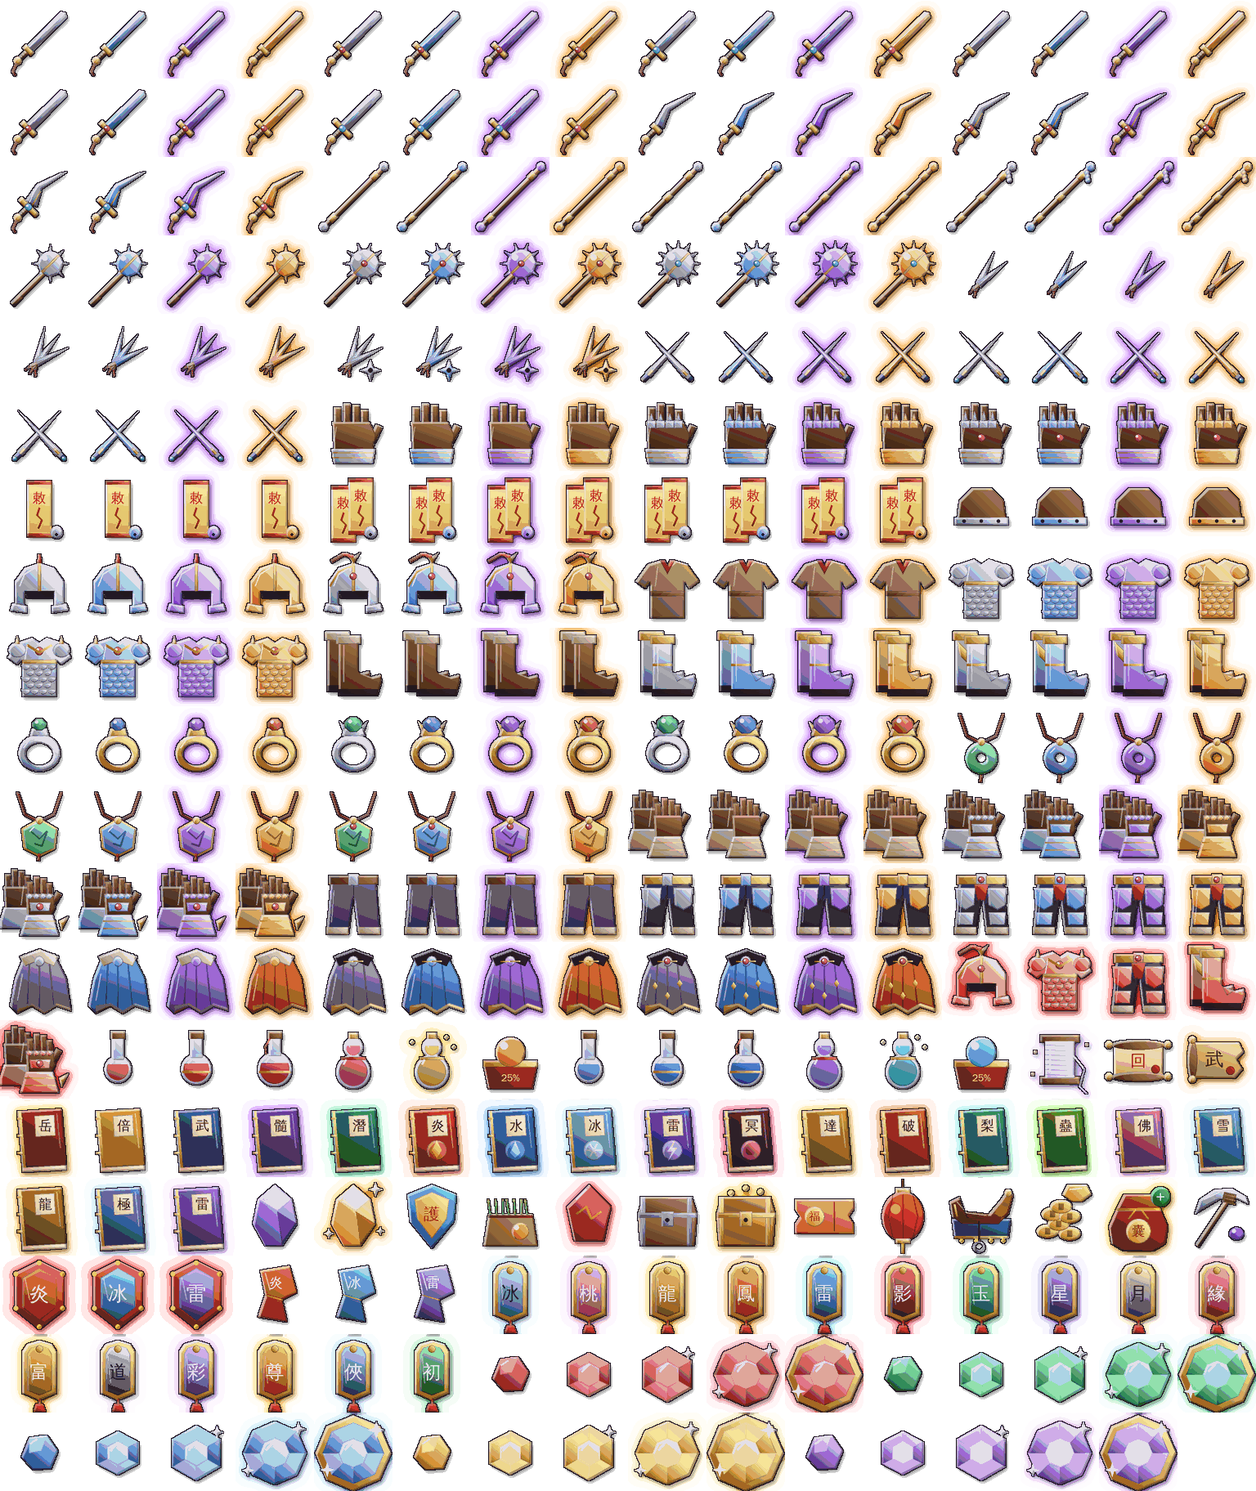
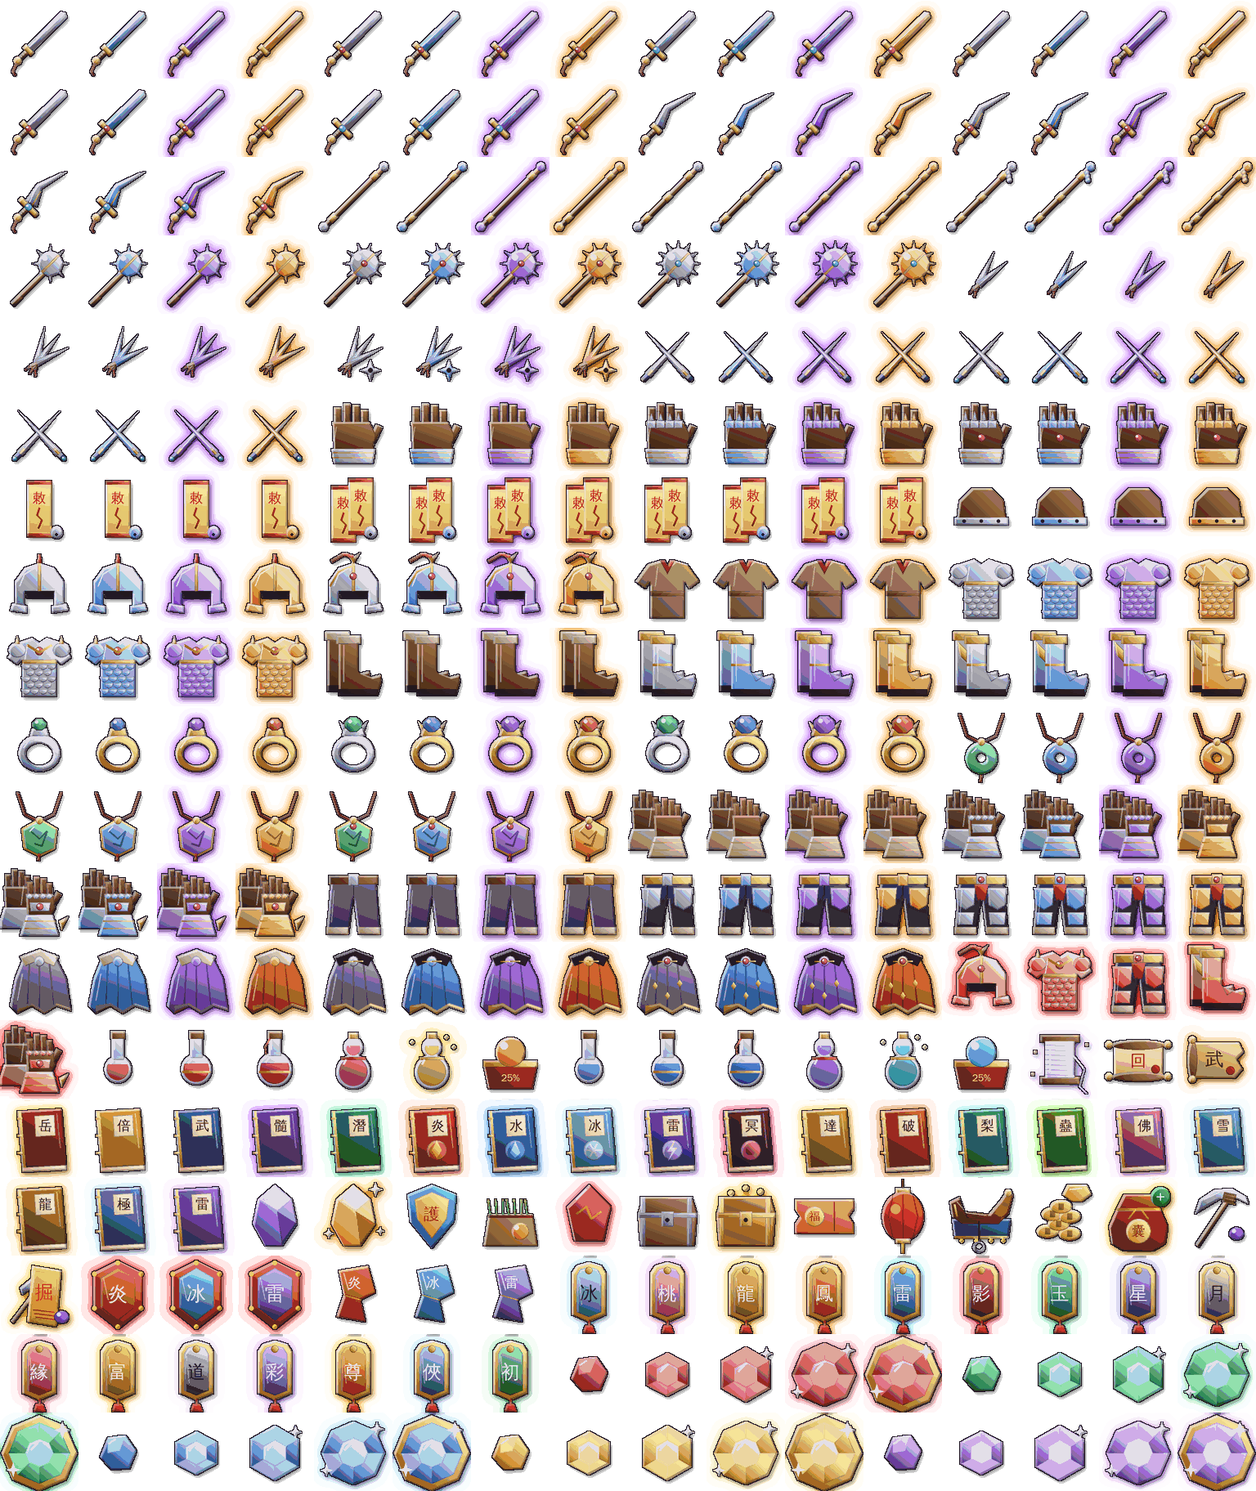
Auto-dig charm, brutal lv90+ mobs, chat emoji picker, Tong Kim HUD layout
- Bua Tu Dao (10 KNB, Ky Tran Cac): auto walk to nearest ore node and dig
  for the current cave session; tap the timer to pause
- Field monsters lv90+ hit x3 (rising per level); dungeon mobs unchanged
- Emoji picker button in the chat form
- Tong Kim: chat stays visible on touch; score board moves to the quest
  tracker spot (tracker hidden on the battlefield)

Claude-Session: https://claude.ai/code/session_01AqWtbjMjwaw5KPYKGcCy7Z

Changed region(s): [[0.0, 0.8438, 1.0, 1.0]]

diff --git a/public/js/mining.js b/public/js/mining.js
@@ -99,12 +99,44 @@
     G.moveTo = null; G.chase = null;
     return true;
   }
+  // Bùa Tự Đào: tự đi tới mỏ sẵn sàng gần nhất (tránh mỏ có người / vừa cạn), tới nơi thì bấm Đào; chạm khung đồng hồ để tạm dừng
+  let autoPause = false, goal = null, manualAt = 0;
+  const skip = new Map();   // id mỏ -> hết hạn bỏ qua (đi mãi không tới / gửi đào không được)
+  function autoDig() {
+    const m = G.me && G.me.mine;
+    if (!m || !m.auto || autoPause || !inCave() || G.me.dead) { goal = null; return; }
+    const t = performance.now();
+    if (Input.vector && Math.hypot(Input.vector().x, Input.vector().y) > 0.01) manualAt = t;   // đang tự điều khiển: nhường 3 giây
+    if (t - manualAt < 3000) { goal = null; return; }
+    if (digs.has(G.you)) { G.moveTo = null; return; }
+    if (!m.pick && !(G.me.inv || []).some(x => x.id === 'pickaxe')) return;   // hết cuốc
+    const ok = n => n.ready <= now() && !n.busy && !(skip.get(n.id) > t);
+    if (goal && (!ok(goal.n) || t - goal.t0 > 12000)) { if (t - goal.t0 > 12000) skip.set(goal.n.id, t + 30000); goal = null; }
+    if (!goal) {
+      let best = null, bd = 1e9;
+      for (const n of nodes) { if (!ok(n)) continue; const d = Math.hypot(n.x - G.self.x, n.y - G.self.y); if (d < bd) { bd = d; best = n; } }
+      if (!best) { G.moveTo = null; return; }   // mỏ nào cũng cạn: đứng chờ
+      goal = { n: best, t0: t, sent: 0 };
+    }
+    const n = goal.n, d = Math.hypot(n.x - G.self.x, n.y - G.self.y);
+    if (d > RANGE * 0.6) { G.moveTo = { x: n.x, y: n.y + 26 }; G.chase = null; return; }
+    G.moveTo = null;
+    if (t - goal.sent > 1500) {
+      if (goal.sent && ++goal.tries >= 3) { skip.set(n.id, t + 15000); goal = null; return; }
+      goal.sent = t; goal.tries = goal.tries || 0;
+      G.socket.emit('mine', { id: n.id });
+    }
+  }
+  setInterval(() => { try { autoDig(); } catch (e) { } }, 200);
+
   function ui() {
     if (!btn) {
       btn = document.createElement('button'); btn.id = 'btn-dig'; btn.className = 'hidden'; btn.innerHTML = '⛏<span>Đào</span>';
       btn.onclick = e => { e.stopPropagation(); tryDig(); };
       ($('screen-game') || document.body).appendChild(btn);
       hud = document.createElement('div'); hud.id = 'mine-hud'; hud.className = 'hidden';
+      hud.addEventListener('pointerdown', e => e.stopPropagation());
+      hud.onclick = e => { e.stopPropagation(); if (!(G.me && G.me.mine && G.me.mine.auto)) return; autoPause = !autoPause; if (autoPause) G.moveTo = null; UI.toast(autoPause ? '⏸ Tạm dừng tự đào' : '🤖 Tiếp tục tự đào'); };
       ($('screen-game') || document.body).appendChild(hud);
       window.addEventListener('keydown', e => { if (e.code === 'KeyF' && Input.inGame && !Input.typing() && nearest()) { e.preventDefault(); e.stopImmediatePropagation(); tryDig(); } }, true);
     }
@@ -112,9 +144,10 @@
     hud.classList.toggle('hidden', !on);
     if (on) {
       const left = Math.max(0, m.until - now()), mm = Math.floor(left / 60000), ss = Math.floor(left / 1000) % 60;
-      const txt = `⛏ ${String(mm).padStart(2, '0')}:${String(ss).padStart(2, '0')} · Cuốc ${m.pick} lần`;
+      const txt = `⛏ ${String(mm).padStart(2, '0')}:${String(ss).padStart(2, '0')} · Cuốc ${m.pick} lần${m.auto ? (autoPause ? ' · ⏸ Tự đào' : ' · 🤖 Tự đào') : ''}`;
       if (hud.textContent !== txt) hud.textContent = txt;
       hud.classList.toggle('warn', left < 5 * 60000);
+      hud.classList.toggle('auto', !!m.auto);
     }
     const n = nearest(), can = !!(n && n.ready <= now() && !n.busy && !digs.has(G.you));
     btn.classList.toggle('hidden', !n);

diff --git a/server/data/changelog.js b/server/data/changelog.js
@@ -4,6 +4,10 @@ const CHANGELOG = [
   {
     date: '29/10/2026',
     items: [
+      '🤖 Bùa Tự Đào (10 Nguyên Bảo – Kỳ Trân Các): dùng trong Khoáng Động, nhân vật tự tìm mỏ đá gần nhất và đào liên tục tới hết lượt 60 phút (vẫn cần Cuốc Chim). Chạm khung đồng hồ ⛏ để tạm dừng / chạy tiếp; tự điều khiển thì tự đào nhường 3 giây.',
+      '💀 Quái bãi luyện từ cấp 90 trở lên đánh cực đau (lực đánh x3 ở cấp 90, tăng dần theo cấp). Chuẩn bị đồ và bình máu thật kỹ!',
+      '😊 Khung chat có nút biểu cảm: chạm 😊 chọn icon chèn vào tin nhắn – trên điện thoại gửi được ngay không cần bật bàn phím.',
+      '⚔ Tống Kim: ô chat hiện lại trên điện thoại; bảng điểm chuyển sang bên trái (chỗ khung nhiệm vụ – khung nhiệm vụ tạm ẩn khi ở chiến trường) không che giữa màn hình nữa.',
       '⚙ Thần Binh: tỉ lệ rơi từ Boss triệu hồi giảm còn 3–5%; cần 100 Mảnh Lệnh mới ghép được Triệu Hồi Lệnh; Boss triệu hồi đánh 10.000–20.000 mỗi đòn. Mặc đủ 5 món cùng bộ: thêm vụ nổ vàng dưới chân mỗi 5 giây – chớp sáng, sóng xung kích lan rộng, đất đá nứt toả ra, đá văng.',
       '⚔ Chiến Trường Tống Kim: trọng thương không còn tự hồi sinh – chọn hồi sinh tại chỗ bằng 10 Nguyên Bảo hoặc về doanh trại phe mình (miễn phí).',
       '🧹 Menu gọn hơn: Túi đồ, Nhân vật, Võ công gộp chung một nút 🎒 Nhân vật (đổi qua lại bằng tab ở đầu bảng; phím I / C / K vẫn dùng được). Mời bạn, Gift code, Nhóm Zalo chuyển vào Cài đặt → Chung (chấm đỏ trên nút Cài đặt khi có quà chưa nhận).',

diff --git a/public/css/ui2.css b/public/css/ui2.css
@@ -278,3 +278,20 @@ body.touch #tk-hud { width: 250px; top: 44px; font-size: 9.5px; }
 .tf-tag.npc { background: #6a5420; color: #ffe9a0; }
 /* vùng chạm joystick nhỏ lại (trước gần nửa màn hình): đủ chỗ cho vòng joystick, phần còn lại chạm được nhân vật / quái */
 #joy-zone { width: clamp(210px, 30%, 300px); height: clamp(190px, 46%, 260px); }
+/* Tống Kim: bảng điểm chiếm chỗ khung nhiệm vụ (bên trái, dưới khung nhân vật); ẩn nhiệm vụ; vẫn hiện ô chat dù đang ở bản đồ PK */
+body.tk-on #tracker { display: none !important; }
+body.tk-on #tk-hud { left: 8px; top: 80px; transform: none; width: 260px; }
+body.touch.tk-on #tk-hud { top: 80px; width: 236px; }
+body.short.touch.tk-on #tk-hud { top: 70px; }
+body.pvp-on.tk-on #chat.collapsed #chat-log { display: block; }
+body.touch.pvp-on.tk-on #chat.collapsed { display: flex; }
+/* bảng biểu cảm trong khung chat */
+#chat-emo { padding: 2px 6px; font-size: 13px; line-height: 1; }
+#emo-pop { position: absolute; left: 0; right: 0; bottom: 100%; margin-bottom: 4px; display: grid; grid-template-columns: repeat(auto-fill, minmax(30px, 1fr)); gap: 2px; padding: 5px; max-height: 150px; overflow-y: auto;
+  background: rgba(14,19,28,.95); border: 1px solid var(--u-line, #3a4a60); border-radius: 12px; box-shadow: 0 6px 18px rgba(0,0,0,.5); z-index: 5; }
+#emo-pop.hidden, #chat.collapsed #emo-pop { display: none; }
+#emo-pop button { background: transparent; border: 0; font-size: 18px; line-height: 1; padding: 4px 0; border-radius: 8px; cursor: pointer; }
+#emo-pop button:hover, #emo-pop button:active { background: rgba(255,255,255,.12); }
+body.touch #emo-pop button { font-size: 21px; padding: 5px 0; }
+body.touch #chat-emo { min-width: 36px; font-size: 16px; }
+#mine-hud.auto { pointer-events: auto; cursor: pointer; }

diff --git a/server/data/items.js b/server/data/items.js
@@ -196,6 +196,7 @@ const CONSUMABLES = [
   { id: 'title_rainbow', name: 'Lệnh Bài: Thất Thải Lưu Ly', desc: 'Dùng để mở khoá vĩnh viễn danh hiệu quà tặng 【Thất Thải Lưu Ly】 có hiệu ứng riêng và đeo ngay. Chưa dùng thì tặng, giao dịch hay bán ở chợ được.', effect: { title: 'g_rainbow' }, price: 0, icon: 'title_rainbow', rarity: 'legendary' },
   { id: 'mine_ticket', name: 'Vé Vào Khoáng Động', desc: 'Dùng để vào Khoáng Động đào đá khảm trong 60 phút (cấp 25+; cấp 55+ vào Huyền Tinh Mật Cảnh, đá cấp cao hơn). Mỗi ngày tối đa 3 lượt. Cần Cuốc Chim để đào.', effect: { mine: 1 }, price: 0, icon: 'ticket' },
   { id: 'pickaxe', name: 'Cuốc Chim', desc: 'Dụng cụ đào đá trong Khoáng Động: mỗi cuốc dùng được 50 lần đào. Hết lượt sẽ tự lấy cuốc mới trong túi.', effect: { pick: 50 }, price: 0, icon: 'pickaxe' },
+  { id: 'auto_dig', name: 'Bùa Tự Đào', desc: 'Dùng trong Khoáng Động: nhân vật tự đi tới mỏ đá gần nhất và đào liên tục tới hết lượt 60 phút đang có (vẫn cần Cuốc Chim). Mỗi lá dùng cho 1 lượt vào hang.', effect: { autoDig: 1 }, price: 0, icon: 'auto_dig' },
   { id: 'lucky_chest', name: 'Rương Bí Ẩn', desc: 'Mở ra nhận vật phẩm ngẫu nhiên, có thể ra đồ VIP!', effect: { chest: 1 }, price: 5000, icon: 'chest' },
   { id: 'boss_chest', name: 'Rương Thủ Lĩnh', desc: 'Rương từ Boss, chắc chắn có đồ Hiếm trở lên', effect: { chest: 2 }, price: 20000, icon: 'chest_gold' },
   { id: 'tieu_chest_dong', name: 'Rương Tiêu Đồng', desc: 'Rương hàng văng ra khi xe Tiêu Đồng bị cướp. Mở nhận ngân lượng, Huyền Tinh.', effect: { tieuChest: 'dong' }, price: 600, icon: 'chest' },

diff --git a/public/js/ui.js b/public/js/ui.js
@@ -311,6 +311,24 @@
       $('chat-input').value = '';
       if (Input.isTouch) $('chat-input').blur();
     };
+    // bảng biểu cảm: chạm để chèn vào tin nhắn (điện thoại không bật bàn phím – gửi luôn bằng nút Gửi)
+    {
+      const EMO = '😀 😂 🤣 😊 😍 😘 😎 🤩 😏 😅 😭 😡 😱 🤔 🙄 😴 🤗 🥳 😤 🤬 👍 👎 👏 🙏 💪 🤝 ✌ 👋 🔥 💯 ❤ 💔 ⭐ 🎉 🎁 💰 💎 ⚔ 🗡 🛡 🏹 🐉 👑 🏆 💀 ☠ 🍵 🌸'.split(' ');
+      const pop = document.createElement('div'); pop.id = 'emo-pop'; pop.className = 'hidden';
+      pop.innerHTML = EMO.map(x => `<button type="button">${x}</button>`).join('');
+      $('chat').appendChild(pop);
+      $('chat-emo').onclick = e => { e.stopPropagation(); pop.classList.toggle('hidden'); };
+      pop.addEventListener('click', e => {
+        e.stopPropagation();
+        const b = e.target.closest('button'); if (!b) return;
+        const inp = $('chat-input');
+        if (inp.value.length + b.textContent.length > 140) return;
+        inp.value += b.textContent;
+        if (!Input.isTouch) inp.focus();
+      });
+      document.addEventListener('pointerdown', e => { if (!pop.classList.contains('hidden') && !pop.contains(e.target) && e.target.id !== 'chat-emo') pop.classList.add('hidden'); });
+      $('chat-form').addEventListener('submit', () => pop.classList.add('hidden'));
+    }
     $('chat-ch').onchange = () => $('chat-to').classList.toggle('hidden', $('chat-ch').value !== 'pm');
     document.querySelectorAll('#chat-tabs button[data-ch]').forEach(b => b.onclick = () => {
       document.querySelectorAll('#chat-tabs button[data-ch]').forEach(x => x.classList.toggle('on', x === b));

diff --git a/server/game/mining.js b/server/game/mining.js
@@ -23,7 +23,8 @@ class Mining {
   active(c, mapId) { return c.mineUntil > Date.now() && (!mapId || c.mineMap === baseOf(mapId)); }
   view(p) {
     const c = p.c;
-    return { left: Math.max(0, DAILY - this.usedToday(c)), daily: DAILY, until: this.active(c) ? c.mineUntil : 0, map: c.mineMap || null, pick: c.pickUses | 0 };
+    const on = this.active(c);
+    return { left: Math.max(0, DAILY - this.usedToday(c)), daily: DAILY, until: on ? c.mineUntil : 0, map: c.mineMap || null, pick: c.pickUses | 0, auto: on && c.mineAuto === c.mineUntil ? 1 : 0 };
   }
   // vào bản đồ khoáng động khi không có lượt (cổng, dịch chuyển, đăng nhập lại sau khi hết giờ): đưa về thành
   allowEnter(p, mapId) {
@@ -77,6 +78,16 @@ class Mining {
     p.c.pickUses = (p.c.pickUses | 0) + PICK_USES;
     this.w.toast(p, `⛏ Cuốc Chim: còn ${p.c.pickUses} lần đào`, 'reward');
     p.dirtyMe = true; this.w.db.markDirty();
+  }
+  // Bùa Tự Đào: bật tự đào cho lượt đang có (máy khách tự đi tới mỏ và bấm Đào)
+  useAuto(p, uid) {
+    const c = p.c, w = this.w;
+    if (!this.active(c, p.mapId)) return w.toast(p, 'Vào Khoáng Động (dùng Vé Vào Khoáng Động) rồi mới dùng Bùa Tự Đào', 'error');
+    if (c.mineAuto === c.mineUntil) return w.toast(p, 'Lượt này đang tự đào rồi', 'error');
+    U.removeByUid(c, uid, 1);
+    c.mineAuto = c.mineUntil;
+    w.toast(p, '🤖 Bật tự đào: nhân vật sẽ tự tìm mỏ và đào tới hết lượt. Chạm khung đồng hồ ⛏ để tạm dừng / chạy tiếp.', 'reward');
+    p.dirtyMe = true; w.db.markDirty();
   }
   end(p, why) {
     const c = p.c;

diff --git a/server/data/npcs.js b/server/data/npcs.js
@@ -32,7 +32,7 @@ const NPCS = {
     talk: 'Bảo vật hiếm có, chỉ nhận Nguyên Bảo.',
     knbShop: [
       ...['weapon', 'armor', 'helmet', 'boots', 'ring', 'amulet'].flatMap(s => [1, 2, 3, 4].map(t => ({ id: `${s}_${t}_rare`, knb: 20 + t * 25 }))),
-      { id: 'doi_phai', knb: 300 }, { id: 'inv_card', knb: 50 }, { id: 'rename_card', knb: 20 }, { id: 'tay_tuy_kinh', knb: 30 }, { id: 'pk_pardon', knb: 30 }, { id: 'stall_token', knb: 10 }, { id: 'mine_ticket', knb: 15 }, { id: 'pickaxe', knb: 10 }, { id: 'tay_tiem_nang', knb: 20 }, { id: 'lucky_chest', knb: 30 }, { id: 'exp_x2', knb: 10 }, { id: 'wheel_ticket', knb: 15 }, { id: 'stone', knb: 3 },
+      { id: 'doi_phai', knb: 300 }, { id: 'inv_card', knb: 50 }, { id: 'rename_card', knb: 20 }, { id: 'tay_tuy_kinh', knb: 30 }, { id: 'pk_pardon', knb: 30 }, { id: 'stall_token', knb: 10 }, { id: 'mine_ticket', knb: 15 }, { id: 'pickaxe', knb: 10 }, { id: 'auto_dig', knb: 10 }, { id: 'tay_tiem_nang', knb: 20 }, { id: 'lucky_chest', knb: 30 }, { id: 'exp_x2', knb: 10 }, { id: 'wheel_ticket', knb: 15 }, { id: 'stone', knb: 3 },
       { id: 'stone2', knb: 40 }, { id: 'insure', knb: 60 }, { id: 'mount_food', knb: 2 }, { id: 'mount_stone', knb: 30 },
       { id: 'book_fire', knb: 800 }, { id: 'book_water', knb: 800 }, { id: 'book_ice', knb: 800 }, { id: 'book_thunder', knb: 800 }, { id: 'book_shadow', knb: 800 },
       { id: 'mount_kim_nguu', knb: 1200 }, { id: 'mount_bach_ho', knb: 1500 }, { id: 'mount_kim_quy', knb: 2000 }, { id: 'mount_hoa_ky_lan', knb: 5000 }, { id: 'mount_phuong_hoang', knb: 6500 }, { id: 'mount_thanh_long', knb: 8000 }, { id: 'mount_hac_long', knb: 8000 }

diff --git a/server/data/monsters.js b/server/data/monsters.js
@@ -159,6 +159,9 @@ function highMon(m) {
   m.hp = Math.round(m.hp * h); m.def = Math.round(m.def * (1 + x * 0.01)); m.atk = Math.round(m.atk * (1 + x * 0.006));
   m.exp = Math.round(m.exp * (1 + (h - 1) * 0.6)); m.gold = Math.round(m.gold * (1 + (h - 1) * 0.4));
 }
+// Quái bãi luyện cấp 90+ đánh cực đau: lực đánh x3 ở cấp 90, +6%/cấp (cấp 99 ~x3,5). Người đủ đồ Truyền Kỳ +7 chịu ~7–8 đòn, +12 ~11 đòn
+// (trước đây 25–45 đòn). Không áp cho quái / boss phó bản (đã có hệ số riêng).
+const BRUTAL_FROM = 90, BRUTAL = L => L < BRUTAL_FROM ? 1 : 3 + (Math.min(L, 120) - BRUTAL_FROM) * 0.06;
 const MON_EL = { rabbit: 'moc', wolf: 'kim', bandit: 'kim', snake: 'moc', bear: 'tho', tiger: 'kim', monkey: 'moc', scorpion: 'tho', ghost: 'thuy', yeti: 'thuy', demon: 'hoa' };
 for (const id in MONSTERS) {
   const m = MONSTERS[id];
@@ -166,6 +169,7 @@ for (const id in MONSTERS) {
   m.el = m.el || MON_EL[m.sprite] || 'tho';
   Object.assign(m, stats(m.lv));
   highMon(m);
+  if (!m.pbBoss && !m.hpK && !/^pb\d/.test(id)) m.atk = Math.round(m.atk * BRUTAL(m.lv));
   m.respawn = 8000;
   if (m.hpK) m.hp = Math.round(m.hp * m.hpK);   // quái đầu lĩnh trong phó bản
   if (m.pbBoss) { m.hp *= 40; m.atk = Math.round(m.atk * 2); m.def = Math.round(m.def * 1.4); m.exp *= 25; m.gold *= 30; }   // boss phó bản: rất trâu, đánh đau

diff --git a/server/game/world.js b/server/game/world.js
@@ -1467,6 +1467,7 @@ class World {
       p.dirtyMe = true; this.db.markDirty(); return;
     }
     if (e.pick) return this.mining.usePick(p, uid);     // Cuốc Chim
+    if (e.autoDig) return this.mining.useAuto(p, uid);   // Bùa Tự Đào
     if (e.dvFrag) return this.divine.useFrag(p, uid, e.dvFrag);       // ghép mảnh lệnh
     if (e.dvSummon) return this.divine.summon(p, uid, e.dvSummon);    // triệu hồi boss Thần Binh
     if (e.stall) return p.mapId === 'cho_phien' ? this.market.action(p, { op: 'mine' }) : this.toast(p, '🏪 Đến Chợ Phiên (đi Xa Phu, miễn phí) rồi dùng lệnh bài này hoặc bấm "🏪 Sạp hàng của tôi" để mở gian hàng ở bất kỳ chỗ trống nào.', 'info');

diff --git a/public/index.html b/public/index.html
@@ -196,6 +196,7 @@
           <select id="chat-ch"><option value="world">Thế giới</option><option value="map">Bản đồ</option><option value="guild">Bang</option><option value="pm">Mật</option></select>
           <input id="chat-to" placeholder="Tên" class="hidden" maxlength="14">
           <input id="chat-input" placeholder="Nhập tin nhắn... (Enter)" maxlength="140">
+          <button type="button" id="chat-emo" class="btn small" title="Biểu cảm">😊</button>
           <button class="btn small">Gửi</button>
         </form>
       </div>

diff --git a/public/js/tongkim.js b/public/js/tongkim.js
@@ -63,6 +63,7 @@
   // ---------- bảng điểm trên chiến trường ----------
   function hud() {
     let h = $('tk-hud');
+    const on = !!inMap(); if (document.body.classList.contains('tk-on') !== on) document.body.classList.toggle('tk-on', on);
     if (!inMap() || !st) { if (h) h.remove(); return; }
     if (!h) {
       h = document.createElement('div'); h.id = 'tk-hud'; $('screen-game').appendChild(h);

diff --git a/tools/icons.py b/tools/icons.py
@@ -555,6 +555,16 @@ def pickaxe(ic):   # Cuốc Chim: cán gỗ chéo, lưỡi sắt cong hai đầu
     ic.spec([(22, 18), (34, 12)], 1.2, 0.8)
     ic.paint(ic.m_ell(48, 46, 6, 5), '#c070ff', '#4a1aa0', edge=0.4, shine=0); ic.dot(46, 44, 1.6, '#ffffff', 0.9)   # viên đá vừa đào
 
+def auto_dig(ic):   # Bùa Tự Đào: lá bùa vàng chữ đỏ 掘, cuốc chim nhỏ bắt chéo phía sau, viên đá tím
+    ic.paint(ic.m_line([(10, 54), (34, 22)], 3), *WOOD)
+    ic.paint(ic.m_poly([(16, 26), (26, 18), (38, 18), (44, 24), (36, 22), (26, 26), (18, 32)]), '#e8eef4', '#4a5464', ang=-60)
+    ic.paint(ic.m_poly([(26, 8), (50, 12), (46, 58), (22, 54)]), '#ffe27a', '#b07a10', ang=-70)
+    ic.paint(ic.m_poly([(28, 12), (47, 15), (44, 54), (25, 51)]), '#ffd04a', '#c08a18', edge=0.2, shine=0.1, alpha=0.6)
+    ic.text('掘', 36, 30, 15, '#c81a10')
+    for k in range(3): ic.paint(ic.m_line([(27 + k, 44 + k * 3), (44 + k * 0.3, 46 + k * 3)], 1), '#c81a10', None, edge=0, shine=0)
+    ic.paint(ic.m_ell(50, 50, 6, 5), '#c070ff', '#4a1aa0', edge=0.4, shine=0); ic.dot(48, 48, 1.6, '#ffffff', 0.9)
+    ic.spec([(28, 12), (26, 30)], 1, 0.5)
+
 # Mảnh lệnh / Triệu Hồi Lệnh boss Thần Binh
 DV_SETS = {'xv': ('#ff7a3a', '#7a1004', '炎'), 'hb': ('#8ae0ff', '#0a3a6a', '冰'), 'ld': ('#c8a8ff', '#2a1460', '雷')}
 def dv_token(ic, key):
@@ -678,12 +688,12 @@ SIMPLE = {
     'jh_book_cl': lambda ic: book(ic, ('#9a5ad8', '#24104a'), '雷'),
     'stone': stone, 'stone2': lambda ic: stone(ic, True), 'insure': insure, 'food': food, 'blood': blood,
     'chest': chest, 'chest_gold': lambda ic: chest(ic, True), 'ticket': ticket, 'lantern': lantern, 'saddle': saddle, 'gold': gold_icon,
-    'bag': bag, 'pickaxe': pickaxe,
+    'bag': bag, 'pickaxe': pickaxe, 'auto_dig': auto_dig,
     **{'dv_token_' + k: (lambda k: lambda ic: dv_token(ic, k))(k) for k in DV_SETS},
     **{'dv_frag_' + k: (lambda k: lambda ic: dv_frag(ic, k))(k) for k in DV_SETS},
     **{'title_' + k: (lambda k: lambda ic: title_token(ic, k))(k) for k in TITLE_TOKENS},
 }
-SIMPLE_GLOW = {**{'dv_token_' + k: '#ff3020' for k in DV_SETS}, **{'title_' + k: v[0] for k, v in TITLE_TOKENS.items()}, 'silk': '#e0c8ff', 'book_wash': '#c070ff', 'book_attr': '#50ffb0', 'vm_book': '#ffd040', 'vm_scroll': '#ffb040', 'stone2': '#ffc040', 'book_fire': '#ff6020', 'book_water': '#40a0ff', 'book_ice': '#a0e8ff', 'book_thunder': '#c090ff', 'book_shadow': '#ff3a6a', 'jh_book_tl': '#ffd040', 'jh_book_tv': '#ff7a2a', 'jh_book_dm': '#7affd0', 'jh_book_nd': '#8fff4a', 'jh_book_nm': '#ffb0e0', 'jh_book_ty': '#a8ecff', 'jh_book_cb': '#ffc040', 'jh_book_vd': '#b8d8ff', 'jh_book_cl': '#d8a4ff', 'chest_gold': '#ffd040', 'potion_r5': '#ffe060', 'blood': '#ff4040', 'bag': '#ffd040'}
+SIMPLE_GLOW = {**{'dv_token_' + k: '#ff3020' for k in DV_SETS}, **{'title_' + k: v[0] for k, v in TITLE_TOKENS.items()}, 'silk': '#e0c8ff', 'book_wash': '#c070ff', 'book_attr': '#50ffb0', 'vm_book': '#ffd040', 'vm_scroll': '#ffb040', 'stone2': '#ffc040', 'book_fire': '#ff6020', 'book_water': '#40a0ff', 'book_ice': '#a0e8ff', 'book_thunder': '#c090ff', 'book_shadow': '#ff3a6a', 'jh_book_tl': '#ffd040', 'jh_book_tv': '#ff7a2a', 'jh_book_dm': '#7affd0', 'jh_book_nd': '#8fff4a', 'jh_book_nm': '#ffb0e0', 'jh_book_ty': '#a8ecff', 'jh_book_cb': '#ffc040', 'jh_book_vd': '#b8d8ff', 'jh_book_cl': '#d8a4ff', 'chest_gold': '#ffd040', 'potion_r5': '#ffe060', 'blood': '#ff4040', 'bag': '#ffd040', 'auto_dig': '#ffd040'}
 
 def build():
     tiles, index = [], {}
